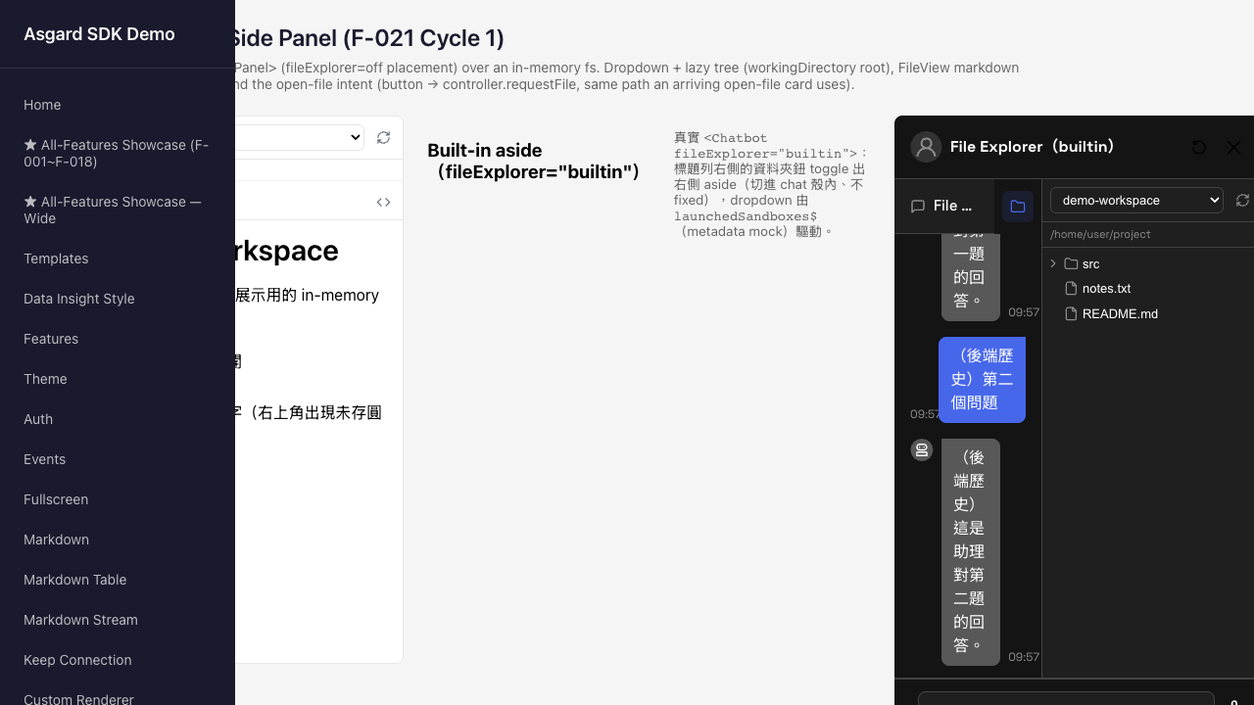
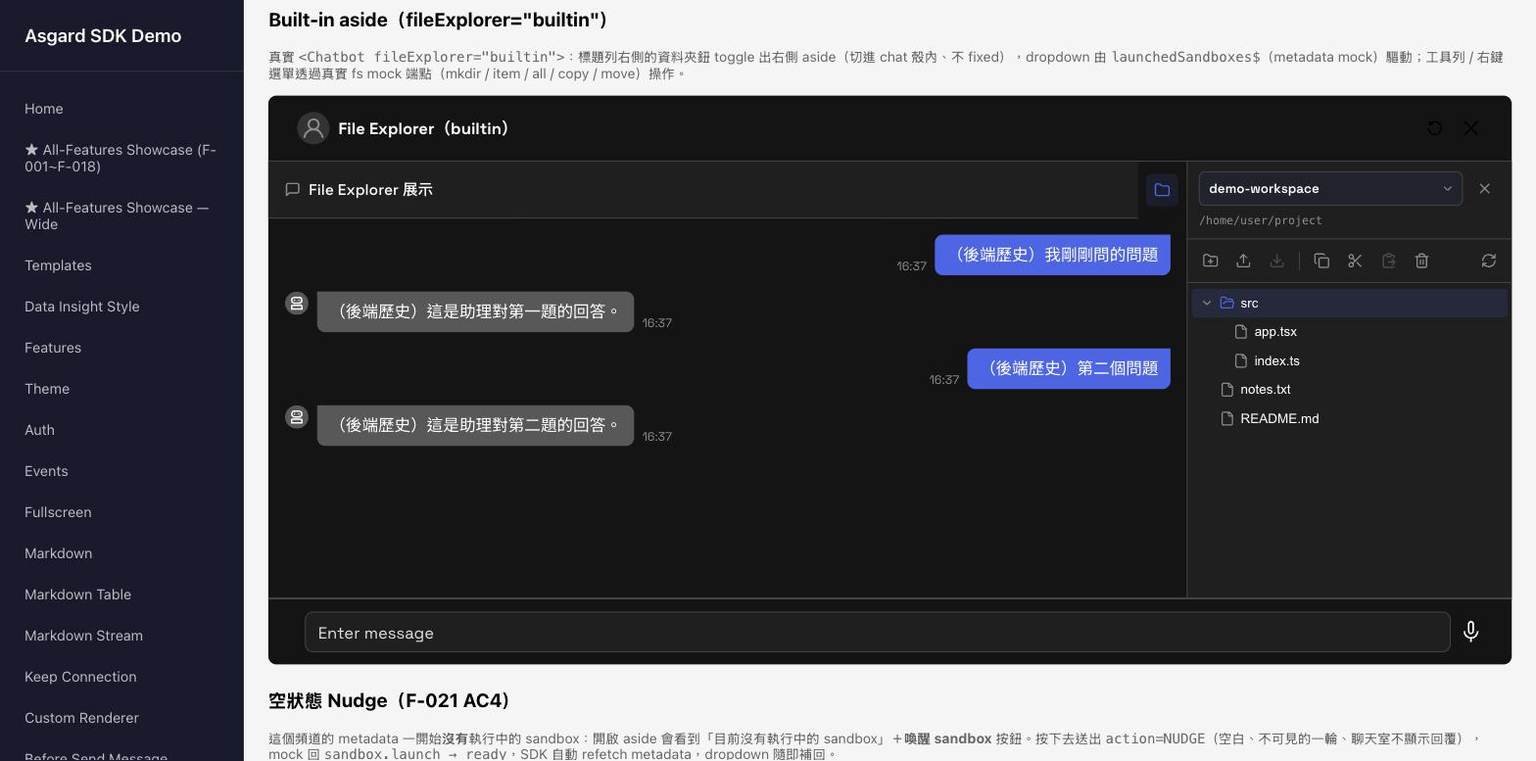
docs(sdd): close BUILD-024 / REVIEW-024 for F-021 Cycle 2
Records the build and the review: §1 static (0 violations) and §3 functional (R1-R7 all
pass, core Vitest 126/126), the per-action R4 re-verification, the prototype-fidelity pass
and the 24-glyph lucide audit, and the chrome/onClose scope amendment captured as R7/T9 so
the spec matches the shipped API. Screenshots are the post-alignment set.

diff --git a/requirements/tasks/_index.md b/requirements/tasks/_index.md
@@ -53,55 +53,57 @@
 
 ## ▶ Next Task
 
-`None — awaiting task selection`。F-021 Cycle 1（BUILD-023 / REVIEW-023）已 **merged to main** via PR #342（含完整讀 prototype 後的 fidelity 對齊：cwd/AC2、樹排序、單擊選取+雙擊開檔、reveal 展開祖先；順修 `useChannel` 未回傳 `channel` 的 bug）。**Backlog**：(1) **F-021 Cycle 2** —— 等後端補 `fs/mkdir|item|all|copy|move` + `fs/watch` + `action=NUDGE`，做變更操作 + context menu + 自動重載 + Nudge + CodeMirror；(2) **F-020 sandbox 動作卡視覺** —— port prototype 的 `SandboxBrowserHandoffCard`/`SandboxOpenFileCard`（目前沿用既有附件 chip，屬當初核准的範圍決策，非缺陷）。**未發版**：F-019 / F-020 / F-021-C1 都在 main 未發（現 0.3.13），待使用者決定版號一起發。F-020（BUILD-022）已 **merged to main** via PR #341。**F-021 拆兩 cycle**：Cycle 1 = 瀏覽（`fs/list`）+ FileView 預覽/編輯存檔（`fs/file` read/write, CodeMirror）+ 側欄 slot/controller + open-file intent 抵達即通知（AC9）+ 編輯中狀態（AC10）+ 生命週期；Cycle 2（等後端補 `fs/mkdir|item|all|copy|move` + `fs/watch` + `action=NUDGE`）= 變更操作 + context menu + 自動重載 + Nudge。後端契約已對 asgard-core 核實（目前僅 3 支 fs 端點）。F-019（BUILD-021）已 **merged to main** via PR #340。F-021（#29 File Explorer）為下一張，與 F-020 共用 `launchedSandboxes$`。BUG-001（BUILD-020）已 **merged to main** via PR #339、發版 0.3.13；F-018（BUILD-019）已 merged via PR #331、發版 0.3.12。BUILD-018 / REVIEW-018 皆 done（§1 0 violation、§3 R1–R5 全 Pass），cycle 收尾、開 PR（base `main`）。version bump / npm publish 待 asgard-core 上線窗口由使用者驅動。
+`BUILD-024`（F-021 Cycle 2：mutations + context menu + Nudge；plan 完成、**待使用者確認範圍後開工**）。後端已 ready（asgard-core `dev-1.16.34`：完整 fs API + `action=NUDGE`，契約已對 develop 核實）。**Cycle 3** 續延：`fs/watch` 自動重載 + CodeMirror。F-021 Cycle 1（BUILD-023 / REVIEW-023）已 **merged to main** via PR #342（含完整讀 prototype 後的 fidelity 對齊：cwd/AC2、樹排序、單擊選取+雙擊開檔、reveal 展開祖先；順修 `useChannel` 未回傳 `channel` 的 bug）。**Backlog**：(1) **F-021 Cycle 2** —— 等後端補 `fs/mkdir|item|all|copy|move` + `fs/watch` + `action=NUDGE`，做變更操作 + context menu + 自動重載 + Nudge + CodeMirror；(2) **F-020 sandbox 動作卡視覺** —— port prototype 的 `SandboxBrowserHandoffCard`/`SandboxOpenFileCard`（目前沿用既有附件 chip，屬當初核准的範圍決策，非缺陷）。**未發版**：F-019 / F-020 / F-021-C1 都在 main 未發（現 0.3.13），待使用者決定版號一起發。F-020（BUILD-022）已 **merged to main** via PR #341。**F-021 拆兩 cycle**：Cycle 1 = 瀏覽（`fs/list`）+ FileView 預覽/編輯存檔（`fs/file` read/write, CodeMirror）+ 側欄 slot/controller + open-file intent 抵達即通知（AC9）+ 編輯中狀態（AC10）+ 生命週期；Cycle 2（等後端補 `fs/mkdir|item|all|copy|move` + `fs/watch` + `action=NUDGE`）= 變更操作 + context menu + 自動重載 + Nudge。後端契約已對 asgard-core 核實（目前僅 3 支 fs 端點）。F-019（BUILD-021）已 **merged to main** via PR #340。F-021（#29 File Explorer）為下一張，與 F-020 共用 `launchedSandboxes$`。BUG-001（BUILD-020）已 **merged to main** via PR #339、發版 0.3.13；F-018（BUILD-019）已 merged via PR #331、發版 0.3.12。BUILD-018 / REVIEW-018 皆 done（§1 0 violation、§3 R1–R5 全 Pass），cycle 收尾、開 PR（base `main`）。version bump / npm publish 待 asgard-core 上線窗口由使用者驅動。
 
 ## Task Queue
 
-| Task ID      | Title                                         | Priority | Status | Spec                                                                                   |
-| ------------ | --------------------------------------------- | -------- | ------ | -------------------------------------------------------------------------------------- |
-| `BUILD-001`  | Message Stream Assembly Robustness            | High     | done   | [BUILD-001-stream-assembly-robustness.md](./BUILD-001-stream-assembly-robustness.md)   |
-| `REVIEW-001` | Review: Message Stream Assembly Robustness    | —        | done   | [REVIEW-001-stream-assembly-robustness.md](./REVIEW-001-stream-assembly-robustness.md) |
-| `BUILD-002`  | Last-Event-ID Resume                          | High     | done   | [BUILD-002-last-event-id-resume.md](./BUILD-002-last-event-id-resume.md)               |
-| `REVIEW-002` | Review: Last-Event-ID Resume                  | —        | done   | [REVIEW-002-last-event-id-resume.md](./REVIEW-002-last-event-id-resume.md)             |
-| `BUILD-003`  | Transcript Replay Kernel + message.user       | High     | done   | [BUILD-003-transcript-replay-kernel.md](./BUILD-003-transcript-replay-kernel.md)       |
-| `REVIEW-003` | Review: Transcript Replay Kernel              | —        | done   | [REVIEW-003-transcript-replay-kernel.md](./REVIEW-003-transcript-replay-kernel.md)     |
-| `BUILD-004`  | Thinking Message Display                      | High     | done   | [BUILD-004-thinking-message-display.md](./BUILD-004-thinking-message-display.md)       |
-| `REVIEW-004` | Review: Thinking Message Display              | —        | done   | [REVIEW-004-thinking-message-display.md](./REVIEW-004-thinking-message-display.md)     |
-| `BUILD-005`  | Run Indicator Bound to Connection at Seam     | High     | done   | [BUILD-005-run-indicator-at-seam.md](./BUILD-005-run-indicator-at-seam.md)             |
-| `REVIEW-005` | Review: Run Indicator at Seam                 | —        | done   | [REVIEW-005-run-indicator-at-seam.md](./REVIEW-005-run-indicator-at-seam.md)           |
-| `BUILD-006`  | Built-in Tool-Call Variants + Label Synth     | High     | done   | [BUILD-006-builtin-tool-call-variants.md](./BUILD-006-builtin-tool-call-variants.md)   |
-| `REVIEW-006` | Review: Built-in Tool-Call Variants           | —        | done   | [REVIEW-006-builtin-tool-call-variants.md](./REVIEW-006-builtin-tool-call-variants.md) |
-| `BUILD-007`  | Tool-Call i18n Locale Prop                    | High     | done   | [BUILD-007-tool-call-i18n-locale.md](./BUILD-007-tool-call-i18n-locale.md)             |
-| `REVIEW-007` | Review: Tool-Call i18n Locale Prop            | —        | done   | [REVIEW-007-tool-call-i18n-locale.md](./REVIEW-007-tool-call-i18n-locale.md)           |
-| `BUILD-008`  | Tool-Call Grouping + Group Summary            | High     | done   | [BUILD-008-tool-call-grouping-summary.md](./BUILD-008-tool-call-grouping-summary.md)   |
-| `REVIEW-008` | Review: Tool-Call Grouping + Group Summary    | —        | done   | [REVIEW-008-tool-call-grouping-summary.md](./REVIEW-008-tool-call-grouping-summary.md) |
-| `BUILD-009`  | Write/Edit Diff + Unified Status              | High     | done   | [BUILD-009-write-edit-diff-status.md](./BUILD-009-write-edit-diff-status.md)           |
-| `REVIEW-009` | Review: Write/Edit Diff + Unified Status      | —        | done   | [REVIEW-009-write-edit-diff-status.md](./REVIEW-009-write-edit-diff-status.md)         |
-| `BUILD-010`  | Tool-Call Expanded Content + Localized Titles | High     | done   | [BUILD-010-tool-call-expand-localize.md](./BUILD-010-tool-call-expand-localize.md)     |
-| `REVIEW-010` | Review: Tool-Call Expanded Content            | —        | done   | [REVIEW-010-tool-call-expand-localize.md](./REVIEW-010-tool-call-expand-localize.md)   |
-| `BUILD-011`  | Tool-Call Failure Detection via isError       | High     | done   | [BUILD-011-toolcall-iserror.md](./BUILD-011-toolcall-iserror.md)                       |
-| `REVIEW-011` | Review: Tool-Call Failure Detection           | —        | done   | [REVIEW-011-toolcall-iserror.md](./REVIEW-011-toolcall-iserror.md)                     |
-| `BUILD-012`  | Task Check List Panel                         | High     | done   | [BUILD-012-task-check-list.md](./BUILD-012-task-check-list.md)                         |
-| `REVIEW-012` | Review: Task Check List Panel                 | —        | done   | [REVIEW-012-task-check-list.md](./REVIEW-012-task-check-list.md)                       |
-| `BUILD-013`  | Subagent List Panel                           | High     | done   | [BUILD-013-subagent-list.md](./BUILD-013-subagent-list.md)                             |
-| `REVIEW-013` | Review: Subagent List Panel                   | —        | done   | [REVIEW-013-subagent-list.md](./REVIEW-013-subagent-list.md)                           |
-| `BUILD-014`  | Derived-State Stores                          | High     | done   | [BUILD-014-derived-state-stores.md](./BUILD-014-derived-state-stores.md)               |
-| `REVIEW-014` | Review: Derived-State Stores                  | —        | done   | [REVIEW-014-derived-state-stores.md](./REVIEW-014-derived-state-stores.md)             |
-| `BUILD-015`  | Channel Title Store                           | Normal   | done   | [BUILD-015-channel-title-store.md](./BUILD-015-channel-title-store.md)                 |
-| `REVIEW-015` | Review: Channel Title Store                   | —        | done   | [REVIEW-015-channel-title-store.md](./REVIEW-015-channel-title-store.md)               |
-| `BUILD-016`  | Channel Title UI                              | High     | done   | [BUILD-016-channel-title-ui.md](./BUILD-016-channel-title-ui.md)                       |
-| `REVIEW-016` | Review: Channel Title UI                      | —        | done   | [REVIEW-016-channel-title-ui.md](./REVIEW-016-channel-title-ui.md)                     |
-| `BUILD-017`  | Join-Init Orchestration + metadata gate       | High     | done   | [BUILD-017-join-init-metadata-gate.md](./BUILD-017-join-init-metadata-gate.md)         |
-| `REVIEW-017` | Review: Join-Init Orchestration               | —        | done   | [REVIEW-017-join-init-metadata-gate.md](./REVIEW-017-join-init-metadata-gate.md)       |
-| `BUILD-018`  | Channel Home Rename (cwd → channel-home)      | High     | done   | [BUILD-018-channel-home-rename.md](./BUILD-018-channel-home-rename.md)                 |
-| `REVIEW-018` | Review: Channel Home Rename                   | —        | done   | [REVIEW-018-channel-home-rename.md](./REVIEW-018-channel-home-rename.md)               |
-| `BUILD-019`  | Sandbox Launch HUD                            | High     | done   | [BUILD-019-sandbox-launch-hud.md](./BUILD-019-sandbox-launch-hud.md)                   |
-| `REVIEW-019` | Review: Sandbox Launch HUD                    | —        | done   | [REVIEW-019-sandbox-launch-hud.md](./REVIEW-019-sandbox-launch-hud.md)                 |
-| `BUILD-020`  | Hide Subagent Message / Thinking Frames       | High     | done   | [BUILD-020-hide-subagent-messages.md](./BUILD-020-hide-subagent-messages.md)           |
-| `REVIEW-020` | Review: Hide Subagent Message / Thinking      | —        | done   | [REVIEW-020-hide-subagent-messages.md](./REVIEW-020-hide-subagent-messages.md)         |
-| `BUILD-021`  | Consume launchedSandboxes + Rx Store          | High     | done   | [BUILD-021-launched-sandboxes-store.md](./BUILD-021-launched-sandboxes-store.md)       |
-| `REVIEW-021` | Review: launchedSandboxes Rx Store            | —        | done   | [REVIEW-021-launched-sandboxes-store.md](./REVIEW-021-launched-sandboxes-store.md)     |
-| `BUILD-022`  | sandbox:// Handoff Cards                      | High     | done   | [BUILD-022-sandbox-handoff-cards.md](./BUILD-022-sandbox-handoff-cards.md)             |
-| `REVIEW-022` | Review: sandbox:// Handoff Cards              | —        | done   | [REVIEW-022-sandbox-handoff-cards.md](./REVIEW-022-sandbox-handoff-cards.md)           |
-| `BUILD-023`  | File Explorer Side Panel — Cycle 1            | High     | done   | [BUILD-023-file-explorer-panel.md](./BUILD-023-file-explorer-panel.md)                 |
-| `REVIEW-023` | Review: File Explorer Side Panel — Cycle 1    | —        | done   | [REVIEW-023-file-explorer-panel.md](./REVIEW-023-file-explorer-panel.md)               |
+| Task ID      | Title                                          | Priority | Status | Spec                                                                                   |
+| ------------ | ---------------------------------------------- | -------- | ------ | -------------------------------------------------------------------------------------- |
+| `BUILD-001`  | Message Stream Assembly Robustness             | High     | done   | [BUILD-001-stream-assembly-robustness.md](./BUILD-001-stream-assembly-robustness.md)   |
+| `REVIEW-001` | Review: Message Stream Assembly Robustness     | —        | done   | [REVIEW-001-stream-assembly-robustness.md](./REVIEW-001-stream-assembly-robustness.md) |
+| `BUILD-002`  | Last-Event-ID Resume                           | High     | done   | [BUILD-002-last-event-id-resume.md](./BUILD-002-last-event-id-resume.md)               |
+| `REVIEW-002` | Review: Last-Event-ID Resume                   | —        | done   | [REVIEW-002-last-event-id-resume.md](./REVIEW-002-last-event-id-resume.md)             |
+| `BUILD-003`  | Transcript Replay Kernel + message.user        | High     | done   | [BUILD-003-transcript-replay-kernel.md](./BUILD-003-transcript-replay-kernel.md)       |
+| `REVIEW-003` | Review: Transcript Replay Kernel               | —        | done   | [REVIEW-003-transcript-replay-kernel.md](./REVIEW-003-transcript-replay-kernel.md)     |
+| `BUILD-004`  | Thinking Message Display                       | High     | done   | [BUILD-004-thinking-message-display.md](./BUILD-004-thinking-message-display.md)       |
+| `REVIEW-004` | Review: Thinking Message Display               | —        | done   | [REVIEW-004-thinking-message-display.md](./REVIEW-004-thinking-message-display.md)     |
+| `BUILD-005`  | Run Indicator Bound to Connection at Seam      | High     | done   | [BUILD-005-run-indicator-at-seam.md](./BUILD-005-run-indicator-at-seam.md)             |
+| `REVIEW-005` | Review: Run Indicator at Seam                  | —        | done   | [REVIEW-005-run-indicator-at-seam.md](./REVIEW-005-run-indicator-at-seam.md)           |
+| `BUILD-006`  | Built-in Tool-Call Variants + Label Synth      | High     | done   | [BUILD-006-builtin-tool-call-variants.md](./BUILD-006-builtin-tool-call-variants.md)   |
+| `REVIEW-006` | Review: Built-in Tool-Call Variants            | —        | done   | [REVIEW-006-builtin-tool-call-variants.md](./REVIEW-006-builtin-tool-call-variants.md) |
+| `BUILD-007`  | Tool-Call i18n Locale Prop                     | High     | done   | [BUILD-007-tool-call-i18n-locale.md](./BUILD-007-tool-call-i18n-locale.md)             |
+| `REVIEW-007` | Review: Tool-Call i18n Locale Prop             | —        | done   | [REVIEW-007-tool-call-i18n-locale.md](./REVIEW-007-tool-call-i18n-locale.md)           |
+| `BUILD-008`  | Tool-Call Grouping + Group Summary             | High     | done   | [BUILD-008-tool-call-grouping-summary.md](./BUILD-008-tool-call-grouping-summary.md)   |
+| `REVIEW-008` | Review: Tool-Call Grouping + Group Summary     | —        | done   | [REVIEW-008-tool-call-grouping-summary.md](./REVIEW-008-tool-call-grouping-summary.md) |
+| `BUILD-009`  | Write/Edit Diff + Unified Status               | High     | done   | [BUILD-009-write-edit-diff-status.md](./BUILD-009-write-edit-diff-status.md)           |
+| `REVIEW-009` | Review: Write/Edit Diff + Unified Status       | —        | done   | [REVIEW-009-write-edit-diff-status.md](./REVIEW-009-write-edit-diff-status.md)         |
+| `BUILD-010`  | Tool-Call Expanded Content + Localized Titles  | High     | done   | [BUILD-010-tool-call-expand-localize.md](./BUILD-010-tool-call-expand-localize.md)     |
+| `REVIEW-010` | Review: Tool-Call Expanded Content             | —        | done   | [REVIEW-010-tool-call-expand-localize.md](./REVIEW-010-tool-call-expand-localize.md)   |
+| `BUILD-011`  | Tool-Call Failure Detection via isError        | High     | done   | [BUILD-011-toolcall-iserror.md](./BUILD-011-toolcall-iserror.md)                       |
+| `REVIEW-011` | Review: Tool-Call Failure Detection            | —        | done   | [REVIEW-011-toolcall-iserror.md](./REVIEW-011-toolcall-iserror.md)                     |
+| `BUILD-012`  | Task Check List Panel                          | High     | done   | [BUILD-012-task-check-list.md](./BUILD-012-task-check-list.md)                         |
+| `REVIEW-012` | Review: Task Check List Panel                  | —        | done   | [REVIEW-012-task-check-list.md](./REVIEW-012-task-check-list.md)                       |
+| `BUILD-013`  | Subagent List Panel                            | High     | done   | [BUILD-013-subagent-list.md](./BUILD-013-subagent-list.md)                             |
+| `REVIEW-013` | Review: Subagent List Panel                    | —        | done   | [REVIEW-013-subagent-list.md](./REVIEW-013-subagent-list.md)                           |
+| `BUILD-014`  | Derived-State Stores                           | High     | done   | [BUILD-014-derived-state-stores.md](./BUILD-014-derived-state-stores.md)               |
+| `REVIEW-014` | Review: Derived-State Stores                   | —        | done   | [REVIEW-014-derived-state-stores.md](./REVIEW-014-derived-state-stores.md)             |
+| `BUILD-015`  | Channel Title Store                            | Normal   | done   | [BUILD-015-channel-title-store.md](./BUILD-015-channel-title-store.md)                 |
+| `REVIEW-015` | Review: Channel Title Store                    | —        | done   | [REVIEW-015-channel-title-store.md](./REVIEW-015-channel-title-store.md)               |
+| `BUILD-016`  | Channel Title UI                               | High     | done   | [BUILD-016-channel-title-ui.md](./BUILD-016-channel-title-ui.md)                       |
+| `REVIEW-016` | Review: Channel Title UI                       | —        | done   | [REVIEW-016-channel-title-ui.md](./REVIEW-016-channel-title-ui.md)                     |
+| `BUILD-017`  | Join-Init Orchestration + metadata gate        | High     | done   | [BUILD-017-join-init-metadata-gate.md](./BUILD-017-join-init-metadata-gate.md)         |
+| `REVIEW-017` | Review: Join-Init Orchestration                | —        | done   | [REVIEW-017-join-init-metadata-gate.md](./REVIEW-017-join-init-metadata-gate.md)       |
+| `BUILD-018`  | Channel Home Rename (cwd → channel-home)       | High     | done   | [BUILD-018-channel-home-rename.md](./BUILD-018-channel-home-rename.md)                 |
+| `REVIEW-018` | Review: Channel Home Rename                    | —        | done   | [REVIEW-018-channel-home-rename.md](./REVIEW-018-channel-home-rename.md)               |
+| `BUILD-019`  | Sandbox Launch HUD                             | High     | done   | [BUILD-019-sandbox-launch-hud.md](./BUILD-019-sandbox-launch-hud.md)                   |
+| `REVIEW-019` | Review: Sandbox Launch HUD                     | —        | done   | [REVIEW-019-sandbox-launch-hud.md](./REVIEW-019-sandbox-launch-hud.md)                 |
+| `BUILD-020`  | Hide Subagent Message / Thinking Frames        | High     | done   | [BUILD-020-hide-subagent-messages.md](./BUILD-020-hide-subagent-messages.md)           |
+| `REVIEW-020` | Review: Hide Subagent Message / Thinking       | —        | done   | [REVIEW-020-hide-subagent-messages.md](./REVIEW-020-hide-subagent-messages.md)         |
+| `BUILD-021`  | Consume launchedSandboxes + Rx Store           | High     | done   | [BUILD-021-launched-sandboxes-store.md](./BUILD-021-launched-sandboxes-store.md)       |
+| `REVIEW-021` | Review: launchedSandboxes Rx Store             | —        | done   | [REVIEW-021-launched-sandboxes-store.md](./REVIEW-021-launched-sandboxes-store.md)     |
+| `BUILD-022`  | sandbox:// Handoff Cards                       | High     | done   | [BUILD-022-sandbox-handoff-cards.md](./BUILD-022-sandbox-handoff-cards.md)             |
+| `REVIEW-022` | Review: sandbox:// Handoff Cards               | —        | done   | [REVIEW-022-sandbox-handoff-cards.md](./REVIEW-022-sandbox-handoff-cards.md)           |
+| `BUILD-023`  | File Explorer Side Panel — Cycle 1             | High     | done   | [BUILD-023-file-explorer-panel.md](./BUILD-023-file-explorer-panel.md)                 |
+| `REVIEW-023` | Review: File Explorer Side Panel — Cycle 1     | —        | done   | [REVIEW-023-file-explorer-panel.md](./REVIEW-023-file-explorer-panel.md)               |
+| `BUILD-024`  | File Explorer Mutations + Context Menu + Nudge | High     | done   | [BUILD-024-file-explorer-mutations.md](./BUILD-024-file-explorer-mutations.md)         |
+| `REVIEW-024` | Review: File Explorer Mutations + Nudge        | —        | done   | [REVIEW-024-file-explorer-mutations.md](./REVIEW-024-file-explorer-mutations.md)       |

diff --git a/requirements/tasks/REVIEW-024-file-explorer-mutations.md b/requirements/tasks/REVIEW-024-file-explorer-mutations.md
@@ -1,0 +1,142 @@
+# REVIEW-024 File Explorer Mutations + Context Menu + Nudge — Cycle 2 (F-021)
+
+## Meta
+
+- Task ID: `REVIEW-024`
+- Status: `done`
+- BUILD Task: `BUILD-024`
+- Reviewed commit: working tree on `feat/29-file-explorer-cycle2` (core mutations committed at `2e1ab2d`; react + demo + Nudge changes reviewed pre-commit)
+- Reviewed branch: `feat/29-file-explorer-cycle2`
+
+---
+
+## §1 Static Code Review
+
+Scanned BUILD-024 `## Coverage` files against `FRONTEND_RULE_COMMON.md`.
+
+### §1.1 Checklist
+
+| Check item                                                                                  | Rule      | Result                                                                                                                                          |
+| ------------------------------------------------------------------------------------------- | --------- | ----------------------------------------------------------------------------------------------------------------------------------------------- |
+| No `any` / `as any`                                                                         | §4.1      | ✅                                                                                                                                              |
+| No `eslint-disable` / `@ts-ignore` bypassing types                                          | §4.2      | ✅ (the only `eslint-disable no-console` hits are pre-existing `debugMode`-gated logs in `client.ts` / `use-channel.ts`, not Cycle-2 code)      |
+| `@asgard-js/core` does not import react / DOM (mutation client in core; menu/toolbar react) | §1.6      | ✅ (core reverse-dep grep empty)                                                                                                                |
+| Additive only; no breaking public-API change                                                | §1.7      | ✅ (new enum member, new client methods, new optional panel props, new `nudge`)                                                                 |
+| Toolbar + context menu share one action-dispatch path (no duplicate mutation calls)         | §3.2 / §6 | ✅ (`actNewFolder`/`actRename`/`actDelete`/`actPaste`/… called by both toolbar buttons and `buildSections`)                                     |
+| Context menu keyboard-navigable + container-clamped (not fixed)                             | §4.1      | ✅ (`role=menu`, arrow-key nav, Esc/outside/scroll/resize close; `useLayoutEffect` clamps within `offsetParent`, coords are container-relative) |
+| Theming via CSS variables; danger = `--asg-color-error`; reduced-motion                     | §4.2      | ✅ (no hardcoded colors in new `.tsx`; `.module.scss` uses `--asg-color-*`; spin honors `prefers-reduced-motion`)                               |
+| Every listener / SSE / timer torn down                                                      | §1.5      | ✅ (`context-menu.tsx` removes all 4 listeners in the effect cleanup)                                                                           |
+| Explicit return types on new exports                                                        | §3.1      | ✅                                                                                                                                              |
+| No `console.log` (except guarded) / no untracked TODO-FIXME                                 | §7        | ✅                                                                                                                                              |
+
+### §1.2 Mechanical Grep
+
+Scoped to Coverage files (`packages/react/src/components/chatbot/file-explorer/*`, `use-channel.ts`, `asgard-service-context.tsx`, core `channel.ts` / `client.ts` / `enum.ts` / `types/sandbox-fs.ts`):
+
+```
+any / as any:                (none in Cycle-2 code)
+@ts-ignore / eslint-disable: client.ts (pre-existing debugMode logs); use-channel.ts:345 (pre-existing consent debug log)
+console.log:                 client.ts:338,387 (both inside `if (this.debugMode)`); use-channel.ts:346 (inside `if (client?.debugMode)`)
+core → react reverse-dep:    (empty)
+react → core/src deep import: (empty)
+hardcoded colors (new tsx):  (empty)
+setTimeout (coverage):       file-view.tsx:84/88 (Cycle-1 debounced save, has cleanup) — no new setTimeout in Cycle-2
+```
+
+All non-empty hits are pre-existing, `debugMode`-gated, or legitimate (debounce with teardown). No Cycle-2 violation.
+
+### §1.3 TypeScript and Lint
+
+```
+build:core + build:react:  PASS (green, no type errors)
+lint:packages:             PASS — 0 errors (1 pre-existing warning: file-view.tsx useMemo scheduleSave dep, Cycle-1)
+format:check (code):       PASS — all Cycle-2 `.ts`/`.tsx` formatted (repo-wide warnings are references/ submodule + docs, pre-existing)
+core Vitest:               126/126 pass (client mutation methods + `nudge()`)
+```
+
+### §1.4 Static Review Acceptance
+
+- [x] All §1.1 items checked ✅/❌
+- [x] §1.2 grep run + output pasted
+- [x] Build + lint clean
+
+---
+
+## §3 Functional Validation
+
+Validated on the react-demo `/file-explorer` route (mutable in-memory fs for the standalone panel; real mutation + NUDGE mock endpoints for the built-in aside) + core Vitest. Screenshots under `.github/screenshots/f-021-c2-*.png`.
+
+### R# Result Matrix
+
+| R#  | Description                                                   | Result  | Note                                                                                                                                                                                                                                                                                                                                                                                                                                                                                     |
+| --- | ------------------------------------------------------------- | ------- | ---------------------------------------------------------------------------------------------------------------------------------------------------------------------------------------------------------------------------------------------------------------------------------------------------------------------------------------------------------------------------------------------------------------------------------------------------------------------------------------- |
+| R1  | Core fs mutation client methods typed + decode                | ✅ Pass | core Vitest 24/24 (`client.spec.ts`) — params, envelope decode, error paths for stat/mkdir/remove/removeAll/copy/move                                                                                                                                                                                                                                                                                                                                                                    |
+| R2  | Toolbar + context menu → mutations; copy/cut/paste clipboard  | ✅ Pass | toolbar renders (`f-021-c2-toolbar`); right-click file menu (download/rename/copy/cut/delete/refresh, `f-021-c2-context-menu`); copy→paste into `src` kept original (`f-021-c2-copy-paste`)                                                                                                                                                                                                                                                                                              |
+| R3  | Context menu keyboard nav + container clamp                   | ✅ Pass | `role=menu`, arrow/Esc/outside-close, clamps within panel `offsetParent` (menu opened fully inside the panel, not viewport-fixed)                                                                                                                                                                                                                                                                                                                                                        |
+| R4  | Rename / new / delete / upload run + refresh                  | ✅ Pass | each action exercised in-browser: new folder → dirs-first (`f-021-c2-new-folder`); rename `notes.txt`→`renamed-notes.txt`, then delete (confirm dialog), then upload `upload-demo.txt` (`f-021-c2-rename-delete-upload`); each runs through the injected provider + `run()` refreshes the affected dir. Also confirmed on the built-in aside via the **real** client method → vite fs-mock endpoint (`sandboxFsMkdir` → `POST fs/mkdir` → list refresh), not just the in-memory shortcut |
+| R5  | Empty-state Nudge → POST action=NUDGE, invisible turn, refill | ✅ Pass | empty channel shows message + Nudge button (`f-021-c2-nudge-empty`); click → `action=NUDGE` → sandbox.launch/ready → metadata refetch → dropdown+tree refilled, **no reply rendered** in chat (`f-021-c2-nudge-filled`); core `nudge()` spec asserts empty text + no user message                                                                                                                                                                                                        |
+| R6  | Build + Vitest + `/file-explorer` browser smoke (screenshot)  | ✅ Pass | build green; core Vitest 126/126; browser smoke of all above; 6 screenshots committed                                                                                                                                                                                                                                                                                                                                                                                                    |
+
+| R7 | `chrome` (card/flush) + `onClose` public props | ✅ Pass | added post-hoc to BUILD-024 (see its scope amendment). Standalone demo panel renders `card` (radius 8px, full border); built-in aside renders `flush` (radius 0, left divider only, no top border) — both measured in-browser. Close button present in the header and in the empty state. No consumer impact: `FileExplorerPanel` is absent from the published 0.3.13 tarball and the Cycle-1 commit is not an ancestor of the `@asgard-js/react@0.3.13` tag, so it has never shipped |
+
+### §3.1 Acceptance
+
+- [x] All R# executed and marked Pass / Fail / Blocked
+- [x] Boundary: delete/overwrite confirmation (`window.confirm`); paste into a dir; move vs copy (cut+paste clears clipboard, copy keeps original); Nudge with no reply rendered
+
+---
+
+## Findings
+
+### Critical (must fix before done)
+
+None.
+
+### Important (should fix in this cycle)
+
+None.
+
+### Prototype fidelity (aligned post side-by-side run)
+
+The R1–R6 matrix above covers behavior only — it never checked the panel against the pinned
+`FileExplorerPanel.tsx`. Re-verified by running the prototype (`references/asgard-chat-kit-prototype`, Vite on
+:8349) next to react-demo `/file-explorer` and diffing rendered SVG path data + computed styles, not by eye.
+Corrected: the `chrome` prop (`card` = rounded/fully-bordered standalone panel, `flush` = the built-in aside's
+left-divider-only variant — the Cycle-1 deferral in REVIEW-023 that Cycle 2 had missed); the dropdown's
+custom caret + `appearance:none` primary-tinted select; `FolderOpen` on expanded dirs; the header grouping
+(select row + cwd under one border, replacing two stacked dividers); the selected row's primary-tinted icon;
+tree row/tree-container metrics and the `0.5rem + depth*0.85rem` indent; `:focus-visible` rings on every
+interactive element; and the radius scale (the prototype's `--radius-sm/md/lg` resolve to 4/6/8px, not the
+0.375/0.5/0.75rem fallbacks first used). Verification after the fix: the 8 toolbar glyphs hash-identical to
+the prototype's lucide output, and header padding / select / toolbar / tree / row / root computed styles all
+match exactly. `.iconBtn` became dead when refresh moved into the toolbar and was removed.
+
+A follow-up audit then compared **all 24** inlined glyphs against the pinned `lucide-react@0.487.0` source in
+`references/.../node_modules` (resolving alias re-exports), which caught two the panel-only diff had missed
+because they live outside `file-explorer-panel.tsx`: the header toggle used `folder` where the design uses
+`folder-tree` (now `FolderTreeIcon`, size 18 to match), and `CodeIcon` was lucide `code` where the design's
+`Code2` aliases to `code-xml` (the variant with the slash) — it is the FileView preview/source toggle. The
+toggle's active tint also moved 12% -> 15% to match the panel's selected row. Audit now reports 0/24 mismatches.
+
+Root cause of the drift: the SDK deliberately avoids a `lucide-react` dependency and hand-inlines each glyph,
+so nothing mechanical guarded the copies — build, lint and Vitest never look at path data.
+
+### Minor (nice to have)
+
+- `fs/watch` auto-reload (AC3) + CodeMirror 6 editor (AC3) are Cycle 3 (out of scope, tracked).
+
+---
+
+## Execution Log
+
+- 2026-07-22: REVIEW task created, paired with BUILD-024 (Status: `draft`).
+- 2026-07-22: §1 static + §3 functional run. §1: 0 violations (all grep hits pre-existing/`debugMode`-gated/legit; build + lint 0 errors; Vitest 126/126). §3: R1–R6 all Pass (browser + Vitest, 6 screenshots). No BLOCKERs → Status `done`.
+- 2026-07-22: prototype-fidelity pass (see Findings). Ran the pinned chat-kit prototype side by side with
+  react-demo and diffed rendered SVG paths + computed styles; aligned `chrome`, the select caret, `FolderOpen`,
+  header grouping, selected-row icon, row/tree metrics, focus rings, and the radius scale. Also fixed the
+  react-demo route: `DemoWrapper`'s `.content` is a flex row, so the route's 8 top-level children were squeezing
+  the panel to ~1px — wrapped in a single block container, and widened the built-in-aside chatbots (default
+  theme is a 375px shell) so the aside is inspectable. Build + lint green; core Vitest 126/126.
+- 2026-07-22: full 24-glyph audit against the pinned lucide source (see Findings); fixed the header toggle
+  (`folder-tree`) and `CodeIcon` (`code-xml`). 0/24 mismatches after the fix.
+- 2026-07-22: R4 re-verified per-action in-browser (rename → delete-with-confirm → upload) after the first pass had inferred rename/delete/upload from the shared `run()` path; added `f-021-c2-rename-delete-upload` screenshot. Also confirmed the built-in aside's real client → vite fs-mock mkdir round-trip (not only the in-memory panel).

diff --git a/requirements/tasks/BUILD-024-file-explorer-mutations.md b/requirements/tasks/BUILD-024-file-explorer-mutations.md
@@ -1,0 +1,121 @@
+# BUILD-024 File Explorer Mutations + Context Menu + Nudge — Cycle 2 (F-021)
+
+## Meta
+
+- Task ID: `BUILD-024`
+- Status: `done`
+- Issue: `https://github.com/asgard-ai-platform/asgard-sdk-pm/issues/29`
+- Source spec: `references/asgard-sdk-pm/tracking/asgard-js-sdk/features/F-021-sandbox-working-directory-file-explorer-側欄.md` (UC-037 / UC-038; prototype `FileExplorerPanel.tsx` + `ContextMenu.tsx`)
+- Complexity: `L`
+
+---
+
+## Brief
+
+Cycle 2 of F-021, unblocked now that `asgard-core` shipped the fuller sandbox fs API + `action=NUDGE` (`dev-1.16.34`, PR #142). Adds the **interactive** layer the Cycle-1 read-only File Explorer deferred: fs mutation client methods, the toolbar + right-click context menu (mirroring the prototype), a copy/cut/paste clipboard, rename / delete / new-file / new-folder / upload, and the empty-state **Nudge** that wakes a recycled sandbox. **fs/watch auto-reload + the CodeMirror editor upgrade are deferred to Cycle 3** (separable enhancements: SSE watch + an editor swap, neither blocks CRUD).
+
+**Already exists (Cycle 1, merged via PR #342):** `sandboxFsList` / `sandboxFsRead` / `sandboxFsWrite`; `FileExplorerPanel` (dropdown + lazy tree + FileView, expanded/selected state lifted to the panel); `FileView` (textarea + streamdown + save + dirty); `useFileExplorerController`; `createSandboxFsProviders`; the built-in aside + folder toggle + open-file arrival bridge; inline SVG icons. No fs mutation methods, no toolbar, no context menu, no clipboard, no Nudge yet.
+
+**Backend contract (verified against `asgard-core` `origin/develop` @ `dev-1.16.34`):**
+
+- `GET  /sandbox/{name}/fs/stat?path=` → `{ data: { exists, isDir, sizeBytes, mtimeUnix, mode, etag? } }`
+- `POST /sandbox/{name}/fs/mkdir?path=` → `{ data: null }`
+- `DELETE /sandbox/{name}/fs/item?path=` (file) → `{ data: null }`
+- `DELETE /sandbox/{name}/fs/all?path=` (dir, recursive) → `{ data: null }`
+- `POST /sandbox/{name}/fs/copy?src=&dst=[&overwrite]` → `{ data: { bytesCopied } }`
+- `POST /sandbox/{name}/fs/move?src=&dst=[&overwrite]` → `{ data: null }`
+- `POST /message/sse` with `action=NUDGE` (`PostBackActionNudge`), empty text → invisible turn (backend suppresses `message.*`, does not write transcript); FE waits for `sandbox.launch/ready` to refill.
+
+---
+
+## Relevant Rules
+
+| §    | Rule (summary)                                                                                          |
+| ---- | ------------------------------------------------------------------------------------------------------- |
+| §1.1 | No `any` — mutation results / context-menu item types fully typed                                       |
+| §1.6 | `@asgard-js/core` never imports react / DOM — fs mutation client methods are core; menu / toolbar react |
+| §1.7 | Additive only — new client methods + new panel callbacks + a `NUDGE` FetchSseAction; no breaking change |
+| §2.2 | New public API (fs mutation methods) exported from the package entry                                    |
+| §3.2 | Reuse Cycle-1 `sandboxFs*` fetch/decode shape; one dispatch path for actions shared by toolbar + menu   |
+| §4.2 | Context menu / toolbar via CSS variables; single accent; danger = `--asg-color-error`; reduced-motion   |
+| §6   | Toolbar and context menu call the same action handlers (no duplicate mutation dispatch)                 |
+
+---
+
+## Acceptance Criteria
+
+Cycle-2 subset of F-021 (deferred from Cycle 1).
+
+- `R1` (AC2) Core fs mutation client methods: `sandboxFsStat`, `sandboxFsMkdir`, `sandboxFsRemove` (file), `sandboxFsRemoveAll` (dir), `sandboxFsCopy`, `sandboxFsMove` — against the verified endpoints, typed results. → T1, T2
+- `R2` (AC2/AC8) A toolbar (new folder / upload / download / copy / cut / paste / delete / refresh) + a right-click context menu whose items map by node type (file / dir / background) to the fs mutation methods; both call the same action handlers; a copy/cut → paste clipboard (cut+paste = move). → T3, T4
+- `R3` (AC8) The context menu is keyboard-navigable (`role=menu`, arrow keys, Esc / outside-click closes) and clamps within the panel container (not `fixed` to the viewport). → T4
+- `R4` (AC2) Rename (`fs/move` same dir), new file (`fs/file` empty), new folder (`fs/mkdir`), upload (`fs/file`), delete (file `fs/item` / dir `fs/all`) run through the injected callbacks and refresh the affected dir. → T3
+- `R5` (AC4) The empty state (no live sandbox) shows the system message + a **Nudge** button; clicking sends `POST /message/sse` `action=NUDGE` (empty text, invisible turn); the FE renders no reply and waits for `sandbox.launch/ready` + a metadata refetch to refill the dropdown. → T5
+- `R6` (Smoke) build green; core Vitest covers the mutation client methods (params + decode + error); the `/file-explorer` demo mock gains the mutation + NUDGE endpoints, and the browser check exercises new folder / rename / delete / copy-paste / the context menu / the Nudge empty state — screenshot(s). → T6, T7
+
+- `R7` (fidelity, added during the prototype-alignment pass — **not in the original spec**) `FileExplorerPanel` gains two
+  public props the prototype defines and Cycle 1's REVIEW-023 had listed as Cycle-2 work: `chrome?: 'card' | 'flush'`
+  (card = standalone rounded/bordered panel, the default; flush = the built-in aside's left-divider-only variant)
+  and `onClose?: () => void` (renders the header / empty-state close button; the built-in aside passes
+  `controller.closeExplorer`). Both are optional and additive. → T9
+
+**Out of scope (Cycle 3):** `fs/watch` SSE auto-reload (AC3), CodeMirror 6 editor upgrade (AC3). Both are separable enhancements over the Cycle-1/2 base.
+
+---
+
+## Implementation Tasks
+
+- [x] T1 (R1): `core/src/types/sandbox-fs.ts` — `SandboxFsStatResult` + copy/move option/result types.
+- [x] T2 (R1): `client.ts` — `sandboxFsStat` / `sandboxFsMkdir` / `sandboxFsRemove` / `sandboxFsRemoveAll` / `sandboxFsCopy` / `sandboxFsMove`; extend `createSandboxFsProviders` with the mutation callbacks. Core Vitest.
+- [x] T3 (R2, R4): `FileExplorerPanel` — toolbar + action handlers (new file/folder, rename, delete, copy/cut/paste clipboard, upload, refresh) wired to the providers; refresh the affected dir after each.
+- [x] T4 (R2, R3): port `ContextMenu` to SDK conventions (SCSS module + inline icons + `role=menu` keyboard nav + container clamp); wire per-node-type sections sharing the toolbar action handlers.
+- [x] T5 (R5): `NUDGE` FetchSseAction + a `nudge()` on `Channel` / `use-channel` (POST /message/sse action=NUDGE, empty text); wire the empty-state Nudge button (built-in + `off`).
+- [x] T6 (R1, R6): core Vitest for the mutation methods.
+- [x] T7 (R6): extend the `/file-explorer` demo mock (mutation + NUDGE endpoints); browser-verify new folder / rename / delete / copy-paste / context menu / Nudge; screenshot(s).
+- [x] T9 (R7): `chrome` + `onClose` props on `FileExplorerPanel`; built-in aside passes `chrome="flush"` +
+      `controller.closeExplorer`. Added in the alignment pass, after the original T1–T8 closed.
+- [x] T8: `npm run lint:packages` + `npm run format:check` + `npm run build:core && npm run build:react`.
+
+---
+
+## Coverage
+
+Use Cases: R1, R2, R3, R4, R5, R6
+
+Files:
+
+**core (`@asgard-js/core`)**
+
+- `packages/core/src/constants/enum.ts` — `FetchSseAction.NUDGE`.
+- `packages/core/src/types/sandbox-fs.ts` — `SandboxFsStatResult`, `SandboxFsCopyMoveOptions`, `SandboxFsCopyResult`.
+- `packages/core/src/lib/client.ts` — `sandboxFsStat` / `sandboxFsMkdir` / `sandboxFsRemove` / `sandboxFsRemoveAll` / `sandboxFsCopy` / `sandboxFsMove` + private `sandboxFsRequest` helper.
+- `packages/core/src/lib/channel.ts` — `nudge()`.
+- `packages/core/src/lib/client.spec.ts` — mutation-method tests (params + decode + error).
+- `packages/core/src/lib/channel.spec.ts` — `nudge()` payload / invisible-turn test.
+
+**react (`@asgard-js/react`)**
+
+- `packages/react/src/components/chatbot/file-explorer/create-sandbox-fs-providers.ts` — `mkdir` / `remove` / `copy` / `move` / `upload` / `download` providers.
+- `packages/react/src/components/chatbot/file-explorer/context-menu.tsx` (new) + `context-menu.module.scss` (new) — `role=menu` keyboard-nav menu, container-clamped.
+- `packages/react/src/components/chatbot/file-explorer/icons.tsx` — FolderPlus / FilePlus / Upload / Download / Copy / Scissors / ClipboardPaste / Pencil / Trash glyphs.
+- `packages/react/src/components/chatbot/file-explorer/file-explorer-panel.tsx` + `file-explorer-panel.module.scss` — toolbar + right-click menu + copy/cut/paste clipboard + action handlers + empty-state Nudge button.
+- `packages/react/src/components/chatbot/file-explorer/chatbot-file-explorer.tsx` — built-in aside wires the mutation providers + `onNudge`, `onClose`, and `chrome="flush"`; header toggle uses `folder-tree`.
+- `packages/react/src/hooks/use-channel.ts` + `packages/react/src/context/asgard-service-context.tsx` — expose `nudge`.
+
+**demo (verification only, `apps/react-demo`)**
+
+- `apps/react-demo/vite.config.ts` — broadened the fs middleware matcher.
+- `apps/react-demo/src/mock-server/sse-mock.ts` — mutable fs mock (stat/mkdir/item/all/copy/move) + NUDGE handler + empty-then-filled metadata channel.
+- `apps/react-demo/src/app/routes/file-explorer/file-explorer.tsx` — Cycle-2 sections (mutation toolbar/menu over a mutable in-memory fs + Nudge empty-state channel).
+
+---
+
+## Execution Log / Change Log
+
+- 2026-07-22: BUILD task created from https://github.com/asgard-ai-platform/asgard-sdk-pm/issues/29 (F-021 Cycle 2). Unblocked by `asgard-core` `dev-1.16.34` (fuller fs API + `action=NUDGE`, PR #142) — contracts verified against `origin/develop`. Scope: mutations + context menu + toolbar + clipboard + Nudge. `fs/watch` auto-reload + CodeMirror deferred to Cycle 3 (Status: `draft`).
+- 2026-07-22: Build complete (Status: `in-progress → done`). Core fs mutation client methods + `nudge()`; react toolbar + right-click context menu + copy/cut/paste clipboard + empty-state Nudge, built-in aside wired. Verified: core Vitest 126/126 (client mutation + nudge specs); `npm run lint:packages` 0 errors; `npm run build:core && npm run build:react` green. Browser (react-demo `/file-explorer`): toolbar, right-click menu, new folder (dirs-first refresh), copy→paste (copy into `src`, original kept), and the Nudge empty-state → wake → dropdown-refill (no reply rendered) — screenshots under `.github/screenshots/f-021-c2-*.png`.
+- 2026-07-22: scope amendment recorded after the fact. The prototype-alignment pass added two public props
+  (`chrome`, `onClose`) that the original R1–R6 never covered — captured above as `R7` / `T9` so the spec and the
+  shipped API agree. Both are optional and additive, and `FileExplorerPanel` has never been published to npm
+  (verified: absent from the 0.3.13 tarball; the Cycle-1 commit is not an ancestor of the 0.3.13 tag), so the
+  changed `chrome` default cannot affect any existing consumer.
